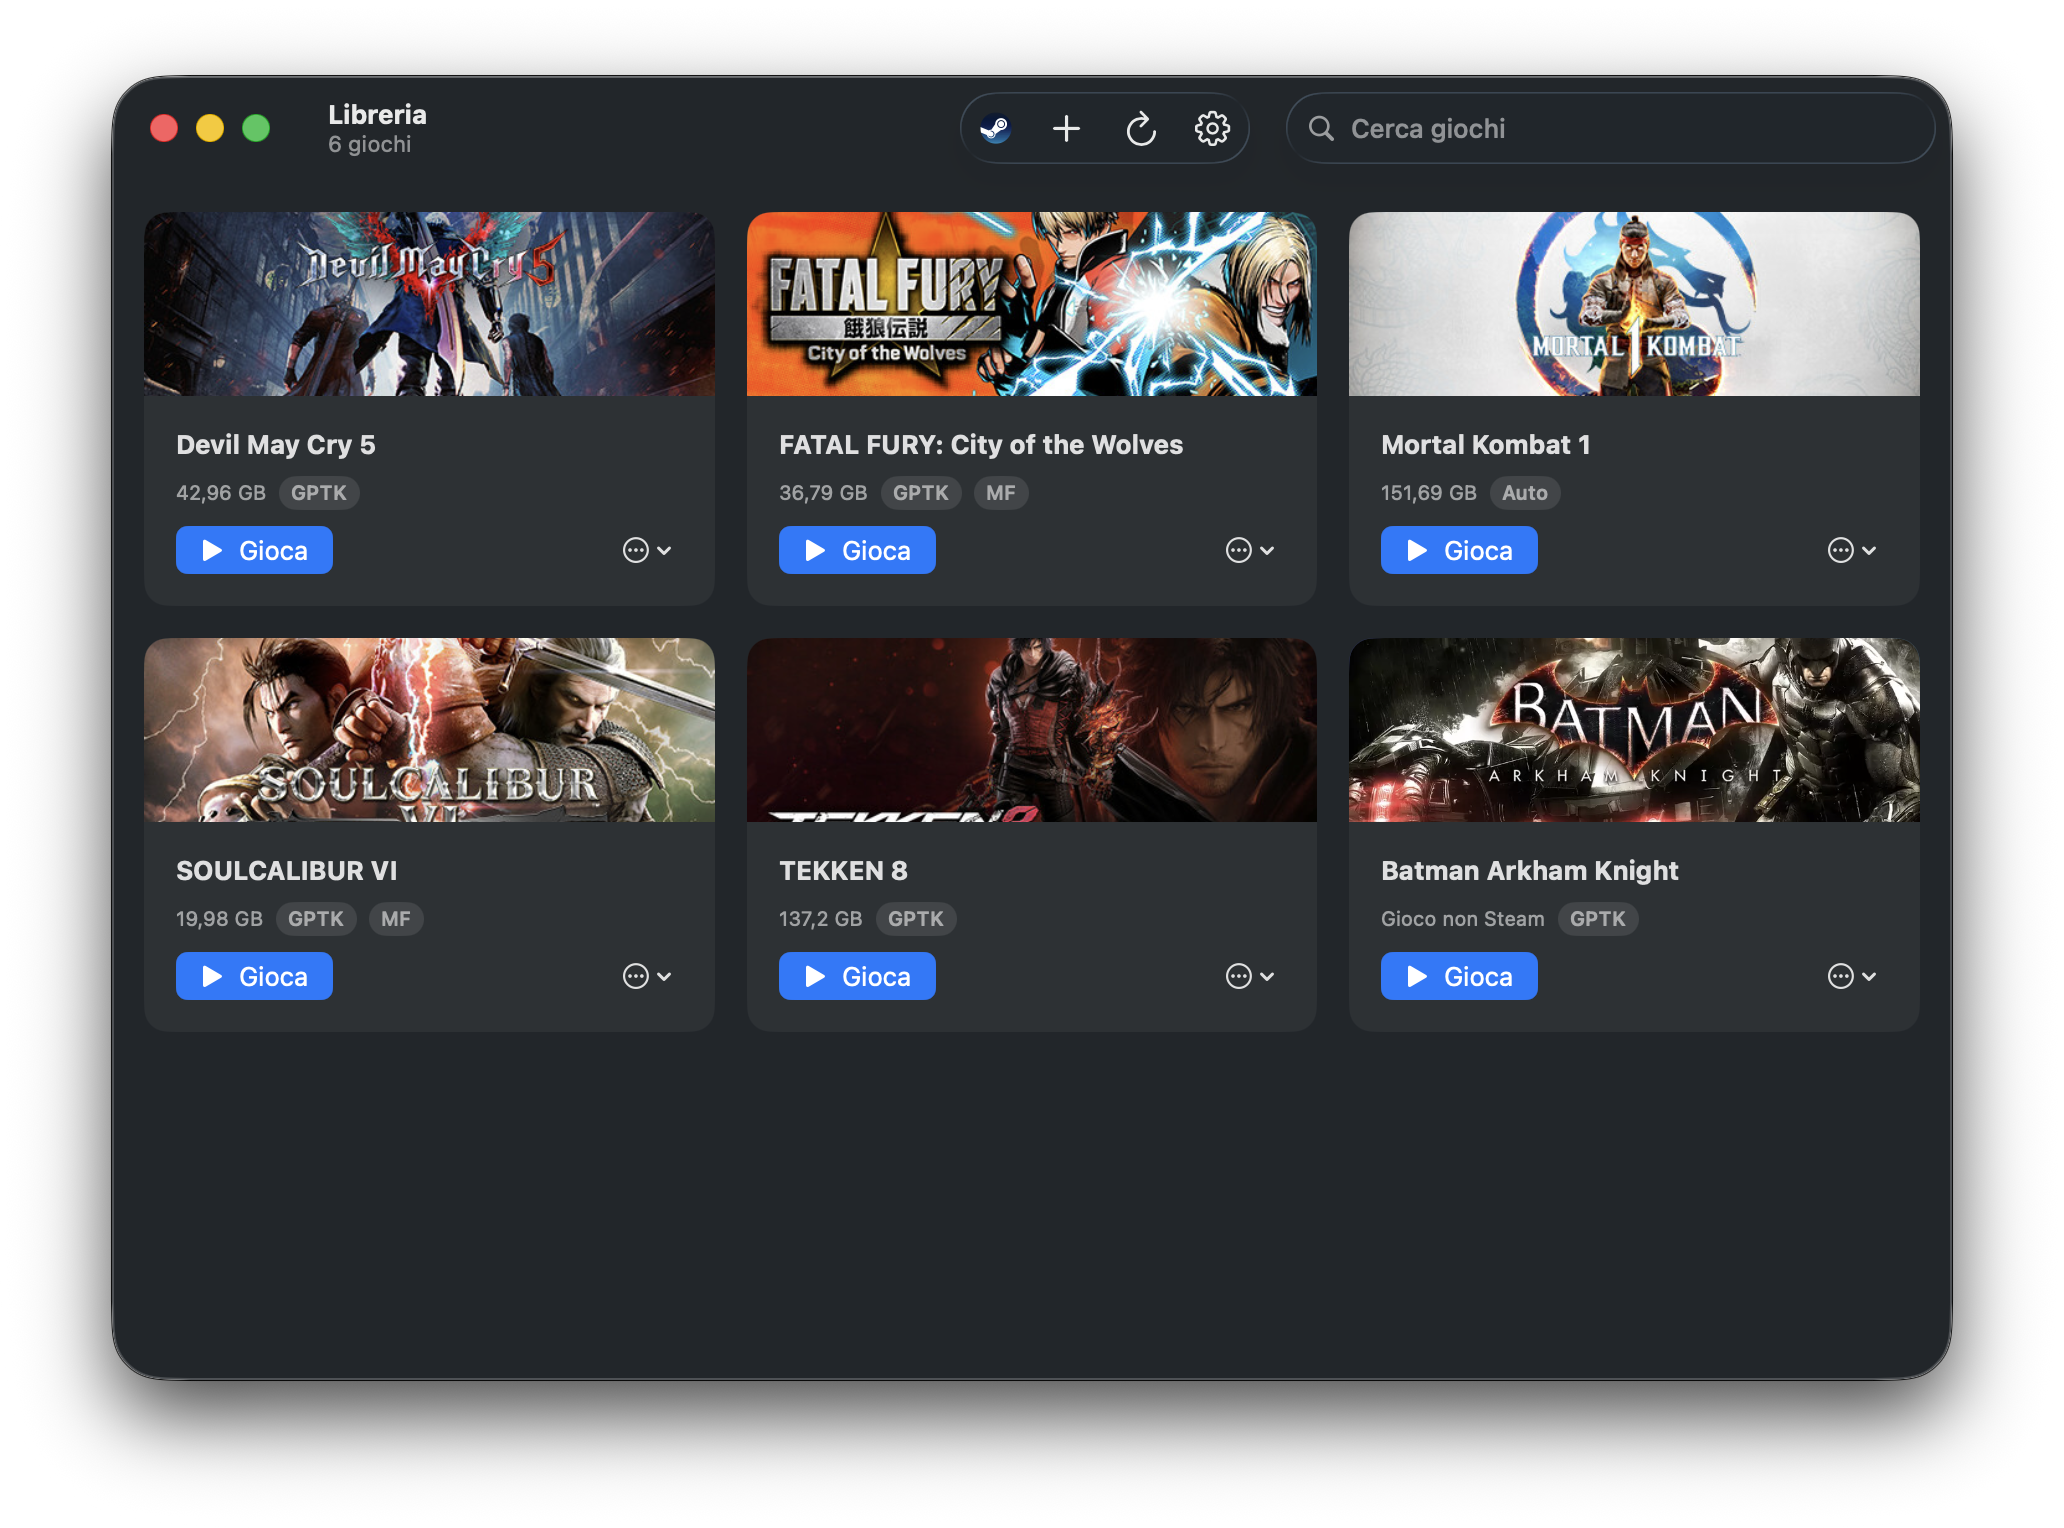
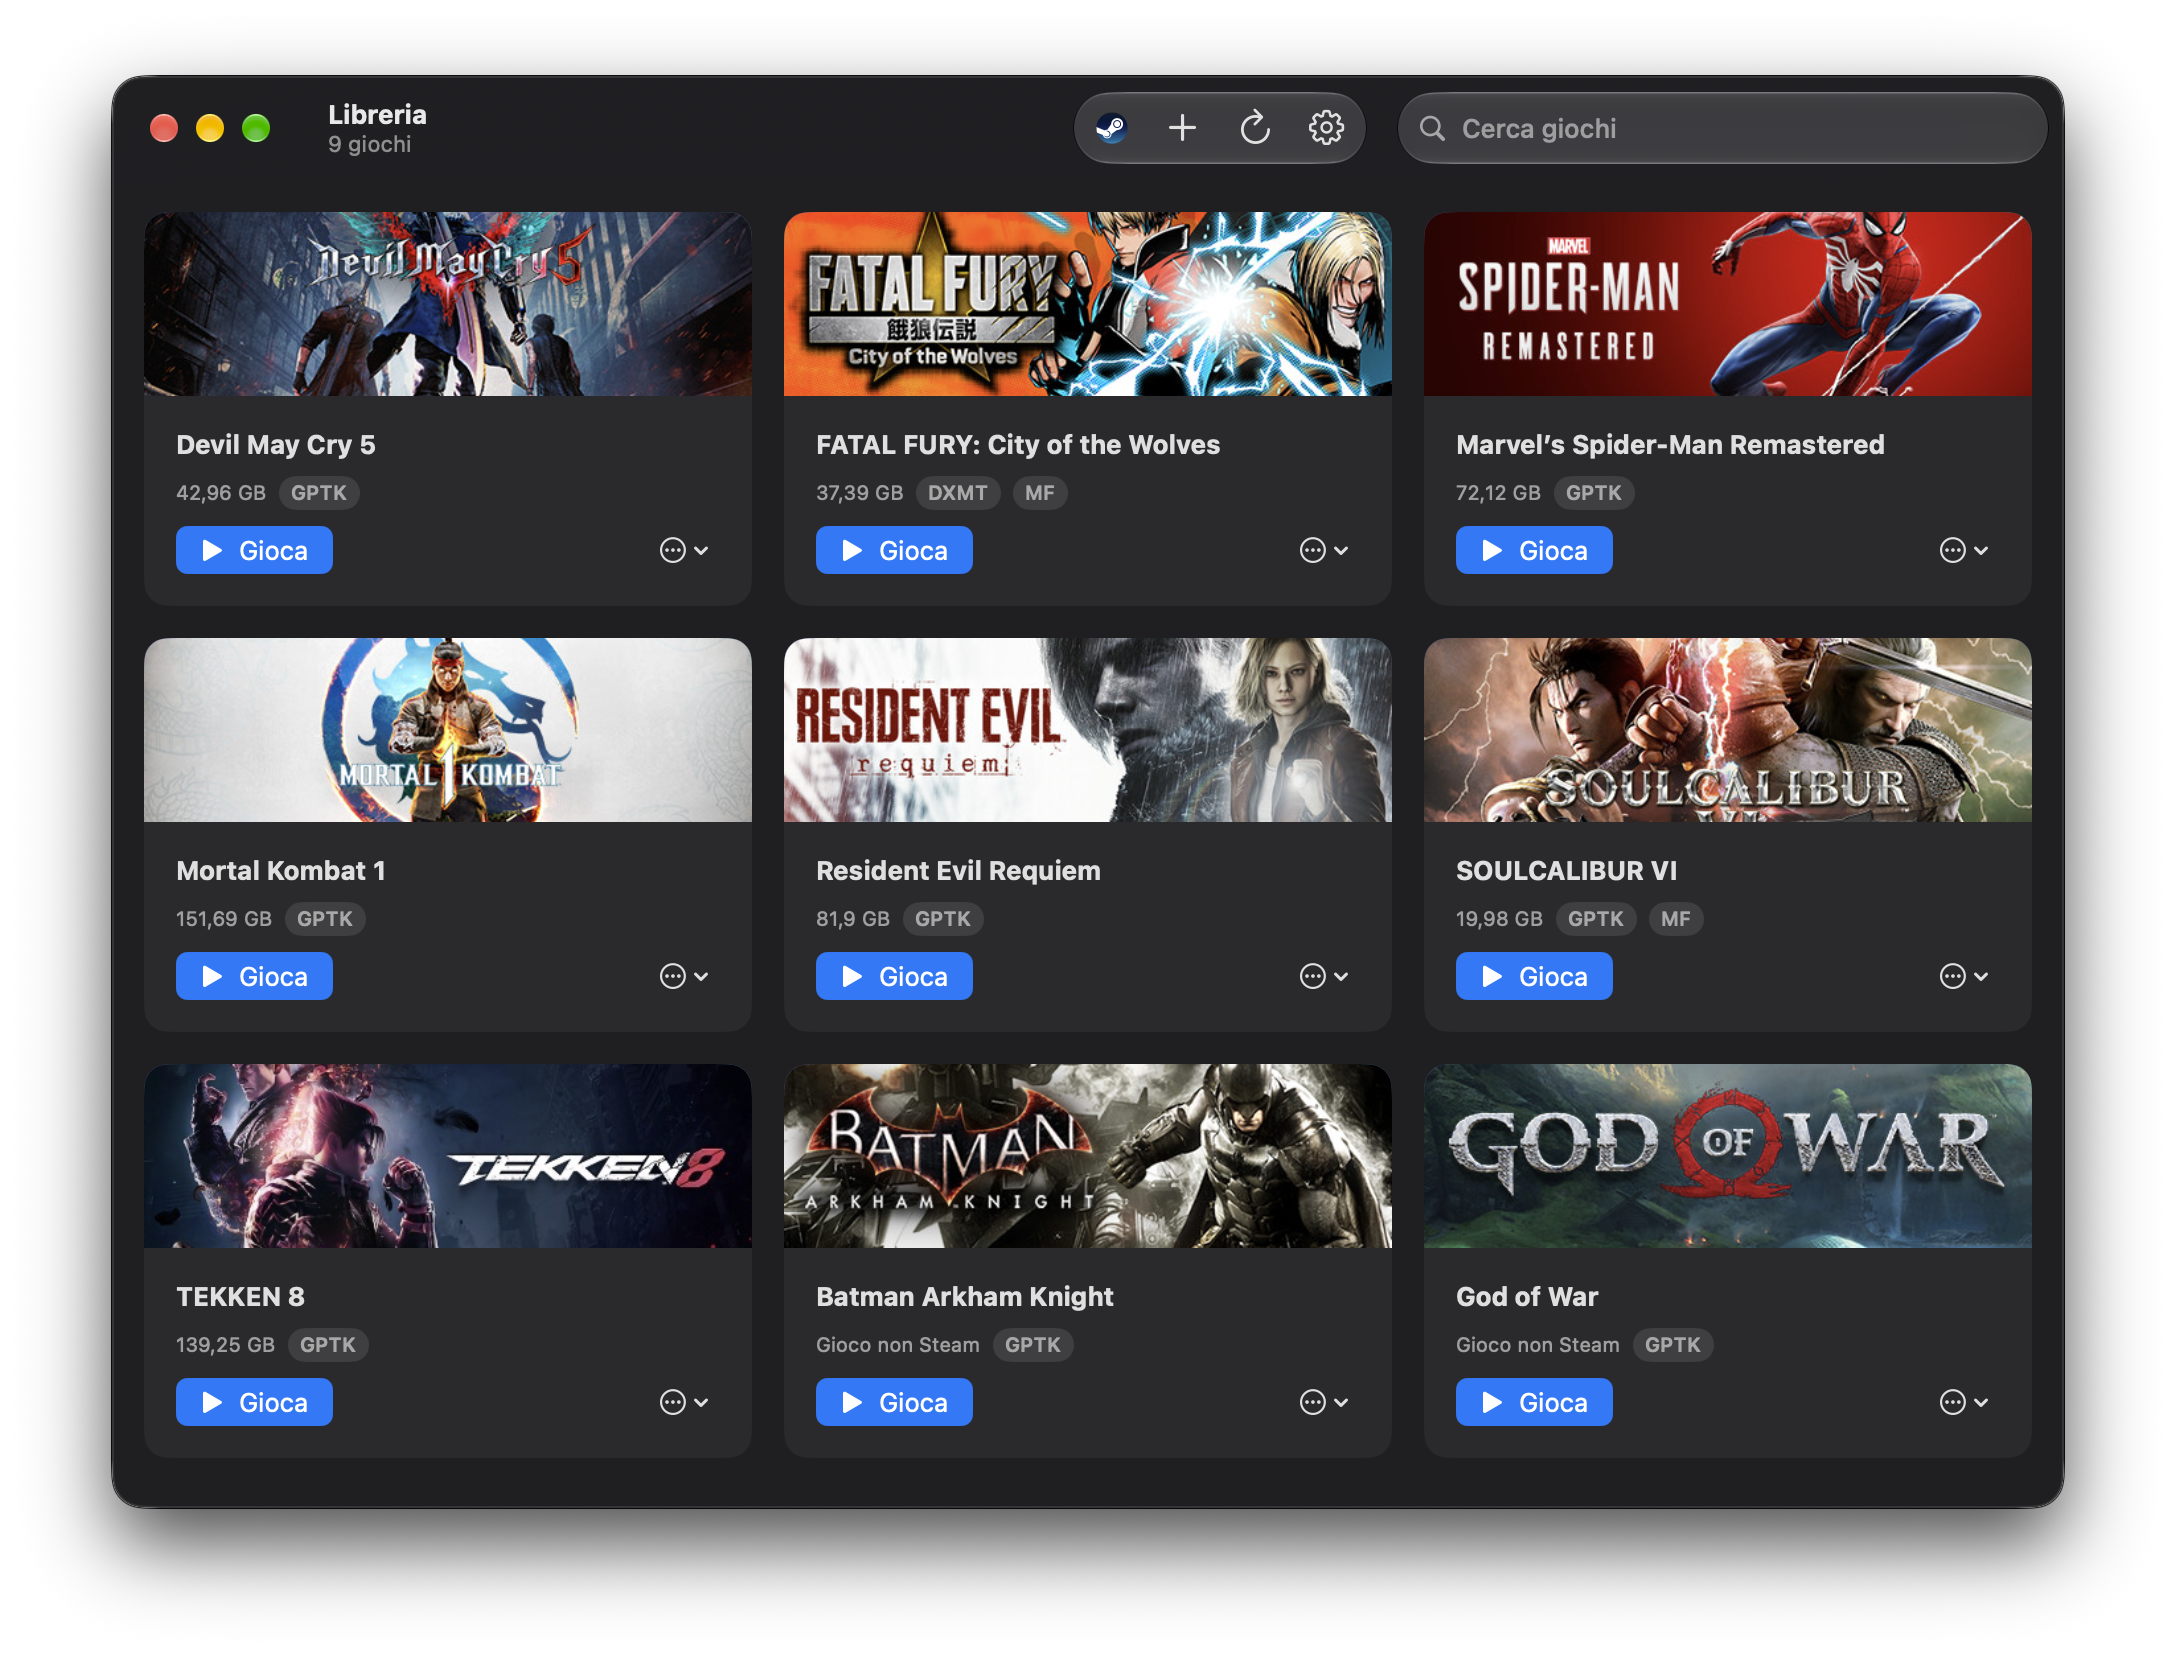
README: nuovo screenshot della libreria (9 giochi) e descrizione aggiornata

diff --git a/README.md b/README.md
@@ -20,7 +20,7 @@
 A personal fork of [mikaelhug/Silo](https://github.com/mikaelhug/Silo), tracking it selectively —
 see the [changelog](CHANGELOG.md) for what's been added here.
 
-<img src="docs/images/dashboard.png" width="820" alt="Silo library — a grid of installed games (Devil May Cry 5, Fatal Fury: City of the Wolves, Mortal Kombat 1, Soulcalibur VI, Tekken 8, and Batman Arkham Knight as a non-Steam game), each with cover art, install size, a per-game graphics-backend badge (Automatic, GPTK, or DXMT) plus an MF badge on the games that run in the Media Foundation bottle, and a Play button" />
+<img src="docs/images/dashboard.png" width="820" alt="Silo library — a grid of nine installed games (Devil May Cry 5, Fatal Fury: City of the Wolves, Marvel's Spider-Man Remastered, Mortal Kombat 1, Resident Evil Requiem, Soulcalibur VI, Tekken 8, plus Batman Arkham Knight and God of War as non-Steam games), each with cover art, install size, a per-game graphics-backend badge (Automatic, GPTK, or DXMT) plus an MF badge on the games that run in the Media Foundation bottle, and a Play button" />
 
 </div>
 
